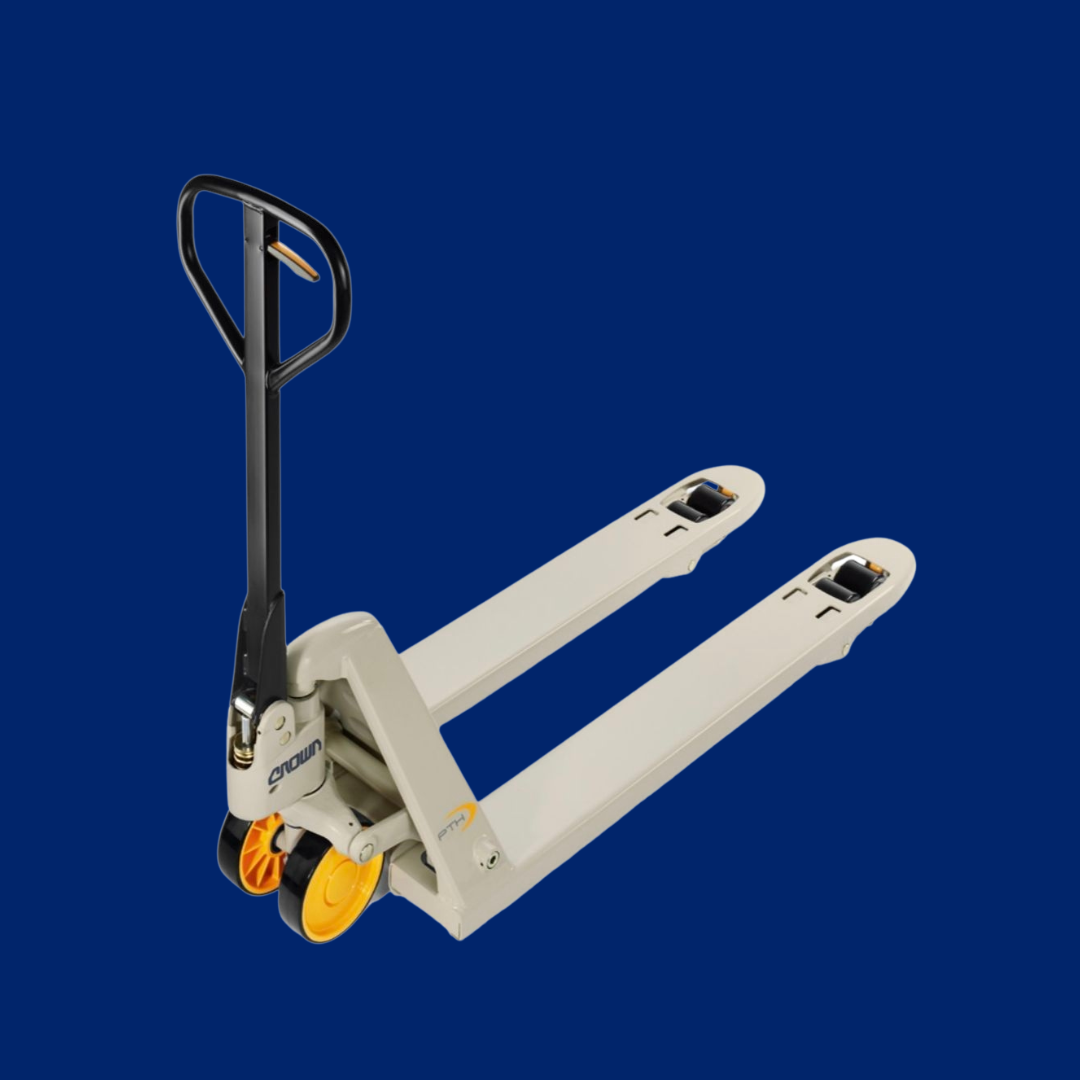
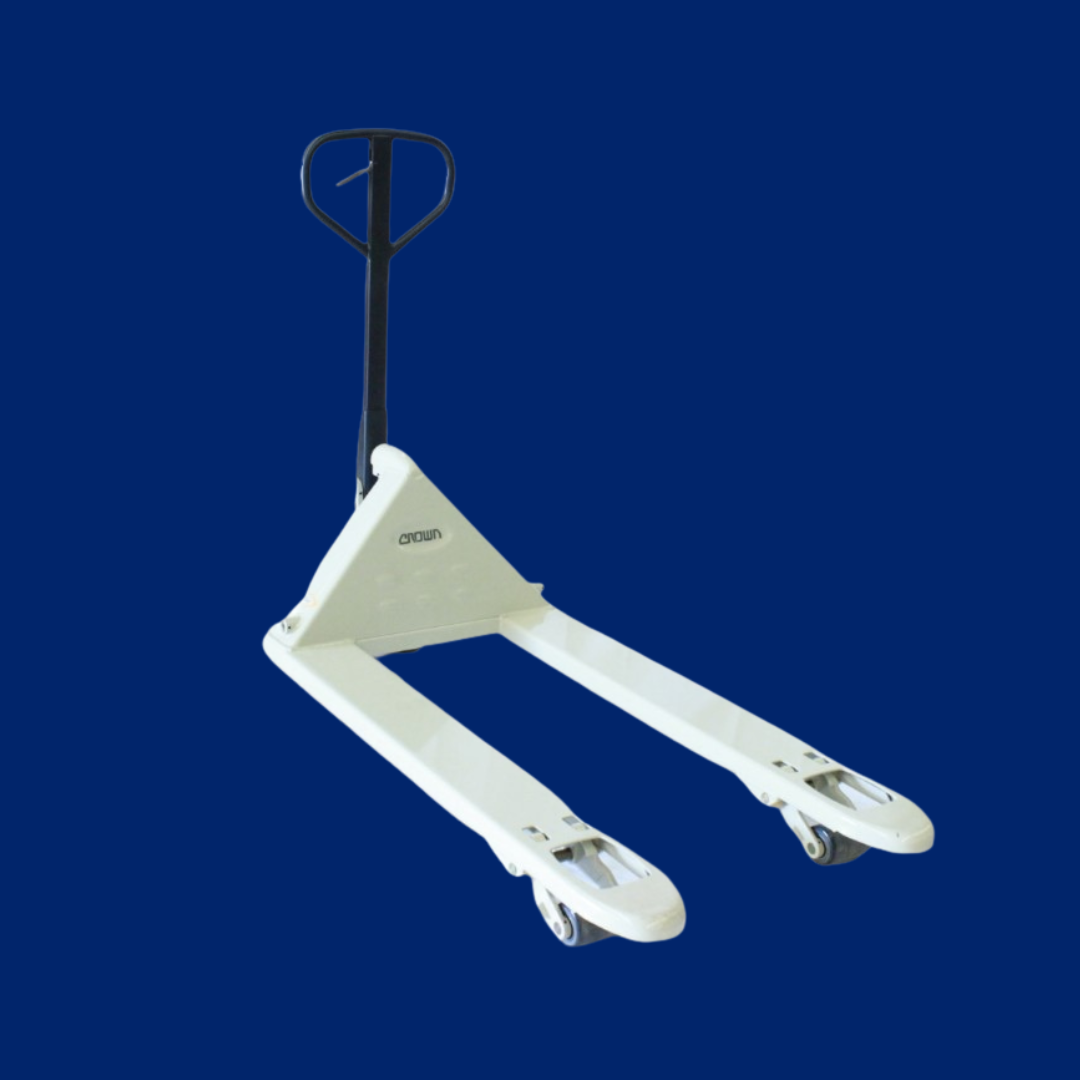
Add files via upload

Changed region(s): [[0.1528, 0.0917, 0.8861, 0.8861]]

diff --git a/index.html b/index.html
@@ -55,30 +55,7 @@
 
 
             <nav class="navbar navbar-default bootsnav navbar-fixed">
-                <div class="navbar-top fix" style="background-color:#00256C;">
-                    <div class="container">
-                        <div class="row">
-                            <div class="col-md-9">
-                                <div class="navbar-callus text-left sm-text-center">
-                                    <ul class="list-inline">
-                                        <li><a href="https://wa.me/[phone redacted]" target="_blank"><i class="fa fa-whatsapp"></i>[phone redacted]</a></li>
-                                        <li><a href="tel:[phone redacted]"><i class="fa fa-phone"></i>[phone redacted]</a></li>
-                                        <li><a href="mailto:[email redacted]"><i class="fa fa-envelope-o"></i>[email redacted]</a></li>
-                                    </ul>
-                                </div>
-                            </div>
-                            <div class="col-md-3">
-                                <div class="navbar-socail text-right sm-text-center">
-                                    <ul class="list-inline">
-                                        <li><a href="https://www.facebook.com/Movilift.Mx/"><i class="fa fa-facebook"></i></a></li>
-                                        <li><a href="https://www.instagram.com/movilift_"><i class="fa fa-instagram"></i></a></li>
-                                     
-                                    </ul>
-                                </div>
-                            </div>
-                        </div>
-                    </div>
-                </div>
+               
 
                
 
@@ -87,15 +64,43 @@
 <nav class="custom-navbar">
 
     <!-- Logo -->
-    <img src="assets/images/LOGO.jpeg"
-         alt="Logo"
-         class="navbar-logo">
+    <div class="navbar-logo">
+        <a href="#home">
+            <img src="assets/images/LOGO.jpeg" alt="Movilift">
+        </a>
+    </div>
 
-    <!-- Botón hamburguesa -->
+    <!-- Contacto -->
+    <div class="navbar-contacto">
+
+        <a href="https://wa.me/525541394585" target="_blank">
+            <i class="fa fa-whatsapp"></i>
+            55 4139 4585
+        </a>
+
+        <a href="tel:[phone redacted]">
+            <i class="fa fa-phone"></i>
+            55 6728 3038
+        </a>
+
+        <a href="mailto:[email redacted]">
+            <i class="fa fa-envelope"></i>
+            [email redacted]
+        </a>
+
+        <a href="https://www.facebook.com/Movilift.Mx/" target="_blank">
+            <i class="fa fa-facebook"></i>
+        </a>
+
+        <a href="https://www.instagram.com/movilift_" target="_blank">
+            <i class="fa fa-instagram"></i>
+        </a>
+
+    </div>
+
+    <!-- Botón móvil -->
     <div class="menu-toggle" id="menu-btn">
-
         ☰
-
     </div>
 
     <!-- Menú -->
@@ -103,7 +108,7 @@
 
         <li><a href="#home">Inicio</a></li>
 
-        <li><a href="#features">Conocenos</a></li>
+        <li><a href="#features">Conócenos</a></li>
 
         <li><a href="#business">Equipos</a></li>
 
@@ -292,7 +297,9 @@ tu experiencia con nosotros sea sencilla, profesional y sin complicaciones.
                     <img src="assets/images/A (2).png" alt="">
                     <div class="texto-hover">
                         <h3>Apilador Eléctrico</h3>
-                        <p>----</p>
+                        <p>-Capacidad 1500 Kilos</p>
+                        <p>-Elevación 3.6 Metros</p>
+                        <p>-Multitarima</p>
                     </div>
                 </div>
             </div>
@@ -323,6 +330,8 @@ tu experiencia con nosotros sea sencilla, profesional y sin complicaciones.
                     <div class="texto-hover">
                         <h3>Apilador Manual Angosto</h3>
                         <p>-Capacidad 1,500 Kilos</p>
+                        <p>-Elevación 1.60 Metros</p>
+                        <p>-EuroPallet</p>
                     </div>
                 </div>
             </div>
@@ -354,7 +363,9 @@ tu experiencia con nosotros sea sencilla, profesional y sin complicaciones.
                     <img src="assets/images/A (10).png" alt="">
                     <div class="texto-hover">
                         <h3>Apilador Semi-Eléctrico</h3>
-                        <p>---</p>
+                        <p>-Capacidad 1000 Kilos</p>
+                        <p>-Elevación 3.0 Metros</p>
+                        <p>-Multitarima</p>
                     </div>
                 </div>
             </div>
@@ -365,6 +376,8 @@ tu experiencia con nosotros sea sencilla, profesional y sin complicaciones.
                     <div class="texto-hover">
                         <h3>Apilador Manual Angosto</h3>
                         <p>Capacidad: 1,500 Kilos</p>
+                        <p>-Elevación 3.0 Metros</p>
+                        <p>-EuroPallet</p>
                     </div>
                 </div>
             </div>
@@ -386,20 +399,13 @@ tu experiencia con nosotros sea sencilla, profesional y sin complicaciones.
                     <img src="assets/images/A (13).png" alt="">
                     <div class="texto-hover">
                         <h3>Apilador Eléctrico</h3>
-                        <p>---</p>
+                        <p>-Capacidad 1500 Kilos</p>
+                        <p>-Elevación 3.5 Metros</p>
+                        <p>-EuroPallet</p>
                     </div>
                 </div>
             </div>
 
-            <div class="item">
-                <div class="imagen-hover">
-                    <img src="assets/images/A (14).png" alt="">
-                    <div class="texto-hover">
-                        <h3>Apilador Eléctrico</h3>
-                        <p>---</p>
-                    </div>
-                </div>
-            </div>
 
         </div>
 
@@ -456,9 +462,9 @@ tu experiencia con nosotros sea sencilla, profesional y sin complicaciones.
                 <div class="imagen-hover">
                     <img src="assets/images/PM (6).png" alt="">
                     <div class="texto-hover">
-                       <h3>Patín Hidráulico Estandar</h3>
+                       <h3>Patín Hidráulico Angosto</h3>
                         <p>-Capacidad: 3,000 Kilos</p>
-                        <p>-Medidas: 27” x 48”</p>
+                        <p>-Medidas: 21” x 48”</p>
                         <p>-Rueda de nylon</p>
                     </div>
                 </div>
@@ -469,7 +475,7 @@ tu experiencia con nosotros sea sencilla, profesional y sin complicaciones.
                     <img src="assets/images/PM (7).png" alt="">
                     <div class="texto-hover">
                         <h3>Patin Hidráulico con Bascula</h3>
-                        <p>---</p>
+                        <p>-Capacidad 2000 Kilos</p>
                     </div>
                 </div>
             </div>
@@ -479,7 +485,9 @@ tu experiencia con nosotros sea sencilla, profesional y sin complicaciones.
                     <img src="assets/images/PM (9).png" alt="">
                     <div class="texto-hover">
                         <h3>Patin Hidráulico Crown</h3>
-                        <p>---</p>
+                        <p>-Capacidad 2250 Kilos</p>
+                        <p>-Medidas 27” x 48”</p>
+                        <p>-Rueda Simple</p>
                     </div>
                 </div>
             </div>
@@ -499,11 +507,13 @@ tu experiencia con nosotros sea sencilla, profesional y sin complicaciones.
             <div class="item">
                 <div class="imagen-hover">
                     <img src="assets/images/PM (11).png" alt="">
+                    <div class="texto-hover">
                      <h3>Patín Hidráulico Largo</h3>
                         <p>-Capacidad: 2,000 Kilos</p>
                         <p>-Medidas: 27” x 71”</p>
                         <p>-Rueda de nylon</p>
                 </div>
+            </div>
             </div>
 
             <div class="item">
@@ -511,7 +521,7 @@ tu experiencia con nosotros sea sencilla, profesional y sin complicaciones.
                     <img src="assets/images/PM (12).png" alt="">
                     <div class="texto-hover">
                          <h3>Patín Hidráulico Estandar</h3>
-                        <p>-Capacidad: 3,000 Kilos</p>
+                        <p>-Capacidad: 7,000 Kilos</p>
                         <p>-Medidas: 27” x 48”</p>
                         <p>-Rueda de nylon</p>
                     </div>
@@ -523,7 +533,8 @@ tu experiencia con nosotros sea sencilla, profesional y sin complicaciones.
                     <img src="assets/images/PM (13).png" alt="">
                     <div class="texto-hover">
                          <h3>Patín Hidráulico Tipo Tijera</h3>
-                        <p>---</p>
+                        <p>-Capacidad 1500 Kilos</p>
+                        <p>-Elevación 80 CM</p>
                         
                     </div>
                 </div>
@@ -809,7 +820,7 @@ tu experiencia con nosotros sea sencilla, profesional y sin complicaciones.
                                     </div>
                                     <ul class="list-inline m-top-20">
                                         <li>-  <a href="https://www.facebook.com/Movilift.Mx/"><i class="fa fa-facebook"></i></a></li>
-                                        <li><a href="https://wa.me/[phone redacted]"><i class="fa fa-whatsapp"></i></a></li>
+                                        <li><a href="https://wa.me/[phone redacted]"><i class="fa fa-whatsapp"></i></a></li>
                                         <li><a href="https://www.instagram.com/movilift_"><i class="fa fa-instagram"></i></a></li>
                                         
                                     </ul>
@@ -823,7 +834,7 @@ tu experiencia con nosotros sea sencilla, profesional y sin complicaciones.
                     <div class="col-md-12">
                         <p class="wow fadeInRight" data-wow-duration="1s">
                        </a> 
-                            2026. All Rights Reserved
+                            Derechos Reservados Movilift 2026.
                         </p>
                     </div>
 

diff --git a/assets/css/style.css b/assets/css/style.css
@@ -1137,6 +1137,111 @@ html {
     z-index: 1000;
 }
 
+
+.custom-navbar{
+
+    background:#00256C;
+
+    display:flex;
+
+    align-items:center;
+
+    justify-content:space-between;
+
+    padding:18px 50px;
+
+    min-height:90px;
+
+}
+
+.navbar-logo img{
+
+    width:150px;
+
+}
+
+.navbar-contacto{
+
+    display:flex;
+
+    align-items:center;
+
+    gap:25px;
+
+    flex:1;
+
+    justify-content:center;
+
+}
+
+.navbar-contacto a{
+
+    color:#fff;
+
+    text-decoration:none;
+
+    font-size:15px;
+
+    transition:.3s;
+
+}
+
+.navbar-contacto a:hover{
+
+    color:#00C3FF;
+
+}
+
+.navbar-contacto i{
+
+    margin-right:6px;
+
+}
+
+.navbar-menu{
+
+    display:flex;
+
+    list-style:none;
+
+    margin:0;
+
+    padding:0;
+
+    gap:35px;
+
+}
+
+.navbar-menu li a{
+
+    color:#fff;
+
+    text-decoration:none;
+
+    font-size:20px;
+
+    font-weight:500;
+
+    transition:.3s;
+
+}
+
+.navbar-menu li a:hover{
+
+    color:#00C3FF;
+
+}
+
+@media(max-width:991px){
+
+.navbar-contacto{
+
+    display:none;
+
+}
+
+}
+
 .navbar-socail li a{
     font-size:16px;
     padding: 10px;